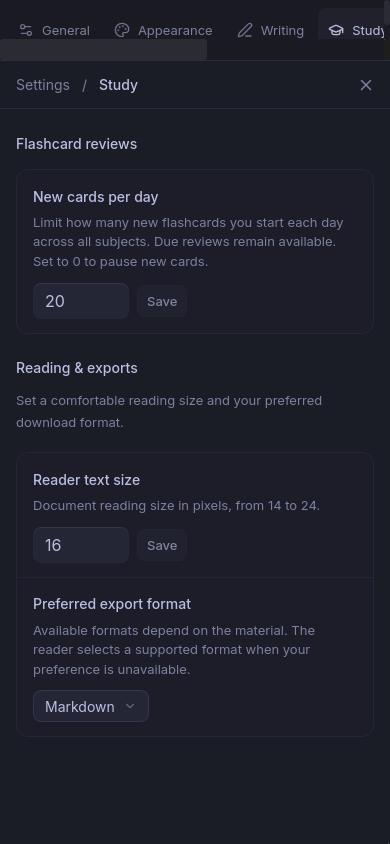
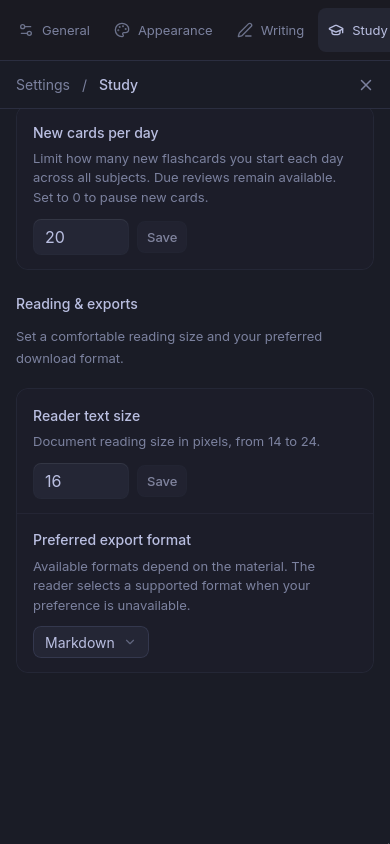
Hide settings scrollbar tracks while retaining scrolling

diff --git a/packages/ui/src/components/settings.css b/packages/ui/src/components/settings.css
@@ -856,3 +856,15 @@
   font-size: 0.8125rem;
   margin-top: 0.75rem;
 }
+
+/* Retain native scrolling without reserving visible scrollbar tracks. */
+.settings-navigation,
+.settings-scroll {
+  scrollbar-width: none;
+}
+.settings-navigation::-webkit-scrollbar,
+.settings-scroll::-webkit-scrollbar {
+  display: none;
+  width: 0;
+  height: 0;
+}
